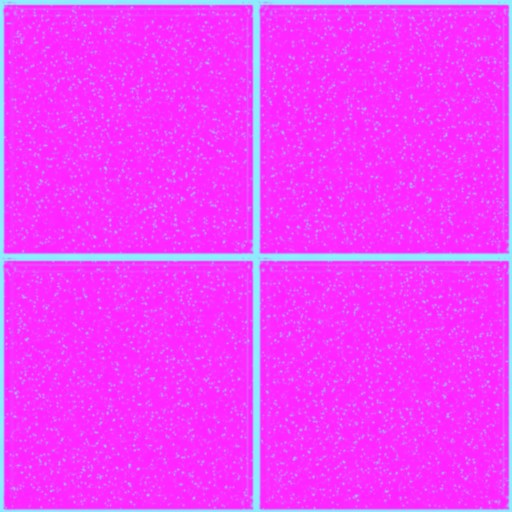
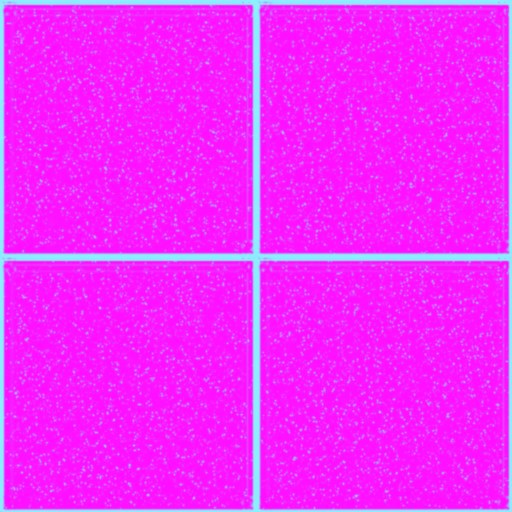
gfx-overhaul: 站内抛光地砖（粗糙度 0.06 + 反射探针 1.3×，去掉辐射遮蔽）真反射；搪瓷墙更亮；朝上草地不透光（夕阳不发黄）；场景切换立刻作废旧阴影图；上午调色更饱和、薄雾更远

diff --git a/js/core/gfx.js b/js/core/gfx.js
@@ -27,8 +27,8 @@ export const LOOKS = {
     sunI: [2.4, 0.9], sunD: [C3(1.0, 0.95, 0.86), C3(1.0, 0.99, 0.96)], sunDir: V3(-0.42, -1, 0.55), envI: [1.0, 0.9] },
   day: { hemiI: [0.42, 0.9], hemiD: [C3(0.9, 0.95, 1.0), C3(1.0, 0.97, 0.92)], hemiG: [C3(0.52, 0.5, 0.46), C3(0.58, 0.6, 0.64)],
     sunI: [3.2, 0.85], sunD: [C3(1.0, 0.94, 0.84), C3(1.0, 0.97, 0.92)], sunDir: V3(-0.48, -0.78, 0.40), envI: [0.62, 0.7],
-    sky: 'assets/tex/sky_day.jpg', env: 'vendor/env/env_day.env', fog: C3(0.70, 0.78, 0.88), fogStart: 110, fogEnd: 380, leafCol: C3(1.0, 0.92, 0.62), rimCol: C3(0.55, 0.68, 0.9),
-    ip: { exposure: 1.0, contrast: 1.1, sat: 18, hiHue: 45, hiDen: 6, hiSat: 8, shHue: 215, shDen: 12, shSat: 26 } },
+    sky: 'assets/tex/sky_day.jpg', env: 'vendor/env/env_day.env', fog: C3(0.68, 0.77, 0.9), fogStart: 140, fogEnd: 480, leafCol: C3(1.0, 0.92, 0.62), rimCol: C3(0.55, 0.68, 0.9),
+    ip: { exposure: 1.02, contrast: 1.12, sat: 26, hiHue: 45, hiDen: 6, hiSat: 10, shHue: 215, shDen: 10, shSat: 24 } },
   dusk: { hemiI: [0.5, 0.9], hemiD: [C3(1.0, 0.84, 0.74), C3(1.0, 0.95, 0.88)], hemiG: [C3(0.55, 0.42, 0.32), C3(0.58, 0.58, 0.62)],
     sunI: [3.6, 0.85], sunD: [C3(1.0, 0.70, 0.42), C3(1.0, 0.95, 0.88)], sunDir: V3(-0.78, -0.34, 0.52), envI: [0.6, 0.7],
     sky: 'assets/tex/sky_dusk.jpg', env: 'vendor/env/env_dusk.env', fog: C3(0.92, 0.66, 0.45), fogStart: 90, fogEnd: 360, leafCol: C3(1.0, 0.62, 0.3), rimCol: C3(0.75, 0.55, 0.55),
@@ -38,7 +38,7 @@ const ORIG_IP = { exposure: 1.0, contrast: 1.12, sat: 22, hiHue: 30, hiDen: 0, h
 // 各桶升级贴图：alb 反照率、n 法线（没有就沿用原法线）、orm 打包贴图、nl 法线强度
 const UP = {
   paint: { alb: 'paint_d', n: 'paint_n', orm: 'paint_orm', size: 1.6, nl: 0.3 },
-  floor: { orm: 'floor_orm' }, pave: { orm: 'pave_orm' }, tactile: { orm: 'tactile_orm' }, ceiling: { orm: 'ceiling_orm' }, wall: { orm: 'wall_orm' },
+  floor: { orm: 'floor_orm', env: 1.3, ro: false }, pave: { orm: 'pave_orm' }, tactile: { orm: 'tactile_orm' }, ceiling: { orm: 'ceiling_orm' }, wall: { orm: 'wall_orm', env: 1.0 },
   metal: { n: 'steel_n', orm: 'steel_orm', nl: 0.3 }, concrete: { n: 'concrete_n', orm: 'concrete_orm', nl: 0.55 }, brick: { orm: 'brick_orm' }, qz: { orm: 'qingzhuan_orm' },
   granite: { orm: 'granite_orm' }, asphalt: { n: 'asphalt_n', orm: 'asphalt_orm', nl: 0.45 }, grass: { n: 'grass_n', orm: 'grass_orm', nl: 0.55 }, facade: { n: 'facade_n', orm: 'facade_orm', nl: 0.75 }
 };
@@ -163,7 +163,7 @@ export class Gfx {
       m.useRoughnessFromMetallicTextureGreen = !!orm; m.useMetallnessFromMetallicTextureBlue = !!orm; m.useAmbientOcclusionFromMetallicTextureRed = !!orm;
       m.useRoughnessFromMetallicTextureAlpha = false;
       m.roughness = orm ? 1.0 : o.rough;
-      m.useHorizonOcclusion = !!(u && n); m.useRadianceOcclusion = !!u;
+      m.useHorizonOcclusion = !!(u && n); m.useRadianceOcclusion = !!u && UP[b].ro !== false;
       if (u && UP[b] && UP[b].env != null) { if (o.env == null) o.env = m.environmentIntensity; m.environmentIntensity = UP[b].env; } else if (o.env != null) m.environmentIntensity = o.env;
     }
   }
@@ -185,13 +185,13 @@ export class Gfx {
     if (!GS.on || !GS.shadow) return;
     if (S.job) { const dl = performance.now() + SLICE_MS; let r; try { r = S.job.next(dl); } catch (e) { console.warn('gfx shadow bake', e); S.job = null; return; } if (r.done) S.job = null; return; }
     if ((S.t -= dt) > 0) return; S.t = 0.35;
-    if (R.indoorTarget > 0.5 && S.cur) return;     // 室内 / 隧道：不重烘（影子本来也渐隐掉了）
     const f = this.focus && this.focus(); if (!f) return;
-    const kits = this.casterKits(); if (!kits.length) return;
+    const kits = this.casterKits();
     const sig = kits.map(k => k.root.name).sort().join('|') + ':' + this.state.light;
+    if (S.cur && S.cur.sig !== sig) this.dropShadow();     // 换了场景：旧图对不上，先关掉
+    if (!kits.length || R.indoorTarget > 0.5) return;      // 室内 / 隧道：不烘（影子本来也渐隐掉了），出来再烘
     const c = S.cur;
-    if (c && c.sig === sig && Math.abs(f.x - c.cx) < SH_MOVE && Math.abs(f.z - c.cz) < SH_MOVE && Math.abs(f.y - c.fy) < 5) return;
-    if (c && c.sig !== sig) this.dropShadow();     // 换了场景：旧图对不上，先关掉
+    if (c && Math.abs(f.x - c.cx) < SH_MOVE && Math.abs(f.z - c.cz) < SH_MOVE && Math.abs(f.y - c.fy) < 5) return;
     S.job = this.bakeJob(kits, { x: f.x, y: f.y, z: f.z }, sig, LOOKS[this.state.light].sunDir);
   }
   /**
@@ -268,6 +268,8 @@ export class Gfx {
       }
     }
     busy += performance.now() - sliceT;
+    // 烘焙期间换了场景（建新站 / 进出内景）：这张图作废，下一轮按新场景重烘
+    { const now = this.casterKits().map(k => k.root.name).sort().join('|') + ':' + this.state.light; if (now !== sig) return; }
     // 上传：WebGL2 用单通道 R8（1536² = 2.3 MB），WebGL1 退回 RGBA
     const r8 = this.engine.webGLVersion >= 2;
     let data = hm; if (!r8) { data = new Uint8Array(RES * RES * 4); for (let i = 0, j = 0; i < hm.length; i++, j += 4) { data[j] = hm[i]; data[j + 3] = 255; } }

diff --git a/js/core/gfxUpgradePlugin.js b/js/core/gfxUpgradePlugin.js
@@ -119,7 +119,7 @@ if (gfxF.y > 0.5) {
   }
   if (gfxF.y > 0.5 && gfxOut > 0.01) {
     vec3 ga = surfaceAlbedo.rgb;
-    float gleaf = step(ga.r * 1.15, ga.g) * step(ga.b * 1.1, ga.g) * gfxOut * gfxSunCol.w;
+    float gleaf = step(ga.r * 1.15, ga.g) * step(ga.b * 1.1, ga.g) * gfxOut * gfxSunCol.w * (1.0 - smoothstep(0.7, 0.92, gfxNg.y) * 0.85);   // 朝上的草地不透光（夕阳下草地发黄）
     float gback = pow(max(0.0, dot(viewDirectionW, gfxSunDir.xyz)), 3.0);
     vec3 gtrans = gfxSunCol.rgb * ga * (gback * 1.6 * (0.35 + 0.65 * gLit) + max(0.0, gNdL * 0.5 + 0.5) * 0.18 * gLit);
     finalDiffuse += gtrans * gleaf;

diff --git a/js/main.js b/js/main.js
@@ -444,7 +444,7 @@ export async function start() {
   };
   const demoPanel = gfx.debug ? installDemoPanel({ gfx, go: gfxGo }) : null;
   window.__gfx = { gfx, go: id => gfxGo(require_view(id)), panel: demoPanel, get stats() { return gfx.stats; }, get state() { return gfx.state; },
-    bake: () => gfx.stats.bake, get baking() { return !!gfx.sh.job; } };
+    bake: () => gfx.stats.bake, get baking() { return !!gfx.sh.job; }, build: code => buildStation(code) };
   function require_view(id) { return (window.__gfxViews || []).find(v => v.id === id); }
   window.__game = {
     state: () => ({

diff --git a/tools/textures/make_upgrade_textures.py b/tools/textures/make_upgrade_textures.py
@@ -57,11 +57,11 @@ N = 512
 # ---------------- ORM（各桶）----------------
 #  name: (albedo, normal, 平面粗糙度, 缝粗糙度, AO 强度, 粗糙度起伏, seam gain)
 SPEC = {
-    'floor':     ('floor.jpg', 'floor_n.jpg', 0.15, 0.93, 0.45, 0.04, 6),
+    'floor':     ('floor.jpg', 'floor_n.jpg', 0.06, 0.93, 0.45, 0.03, 6),
     'paving':    ('paving.jpg', 'paving_n.jpg', 0.74, 0.95, 0.45, 0.10, 5),
     'tactile':   ('tactile.jpg', 'tactile_n.jpg', 0.55, 0.92, 0.40, 0.06, 5),
     'ceiling':   ('ceiling.jpg', 'ceiling_n.jpg', 0.40, 0.90, 0.40, 0.05, 5),
-    'wall':      ('wall.jpg', 'wall_n.jpg', 0.18, 0.92, 0.42, 0.03, 6),
+    'wall':      ('wall.jpg', 'wall_n.jpg', 0.12, 0.92, 0.42, 0.03, 6),
     'concrete':  ('concrete.jpg', None, 0.86, 0.97, 0.35, 0.10, 4),
     'brick':     ('brick.jpg', 'brick_n.jpg', 0.78, 0.95, 0.45, 0.10, 4),
     'qingzhuan': ('qingzhuan.jpg', 'qingzhuan_n.jpg', 0.62, 0.92, 0.42, 0.10, 5),
